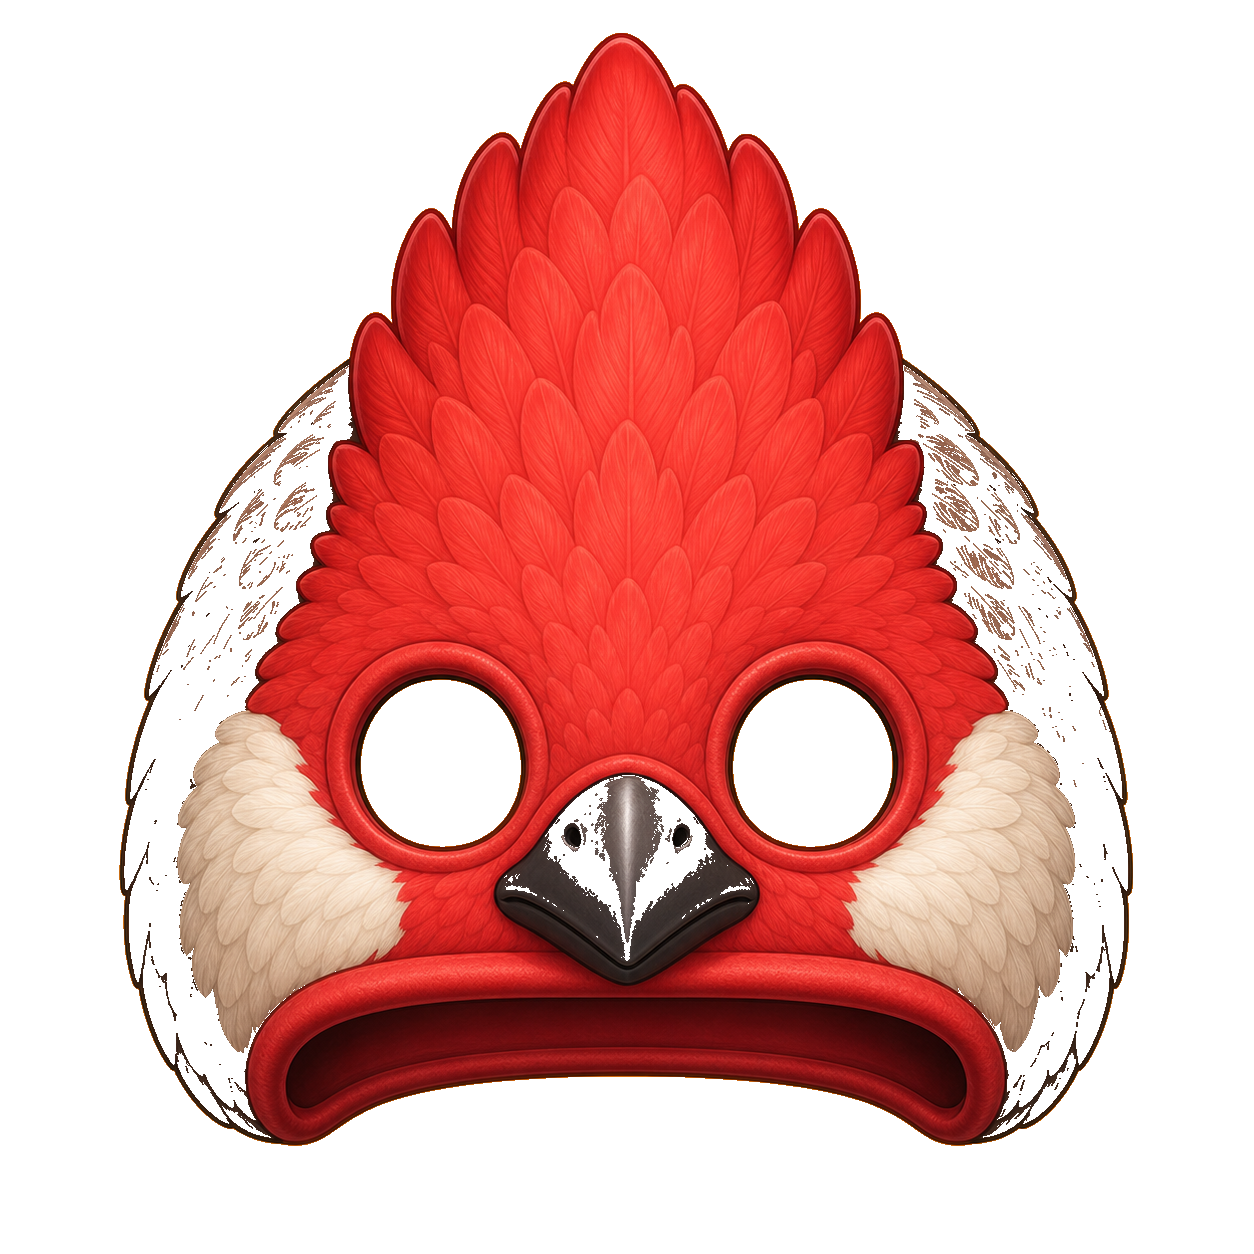
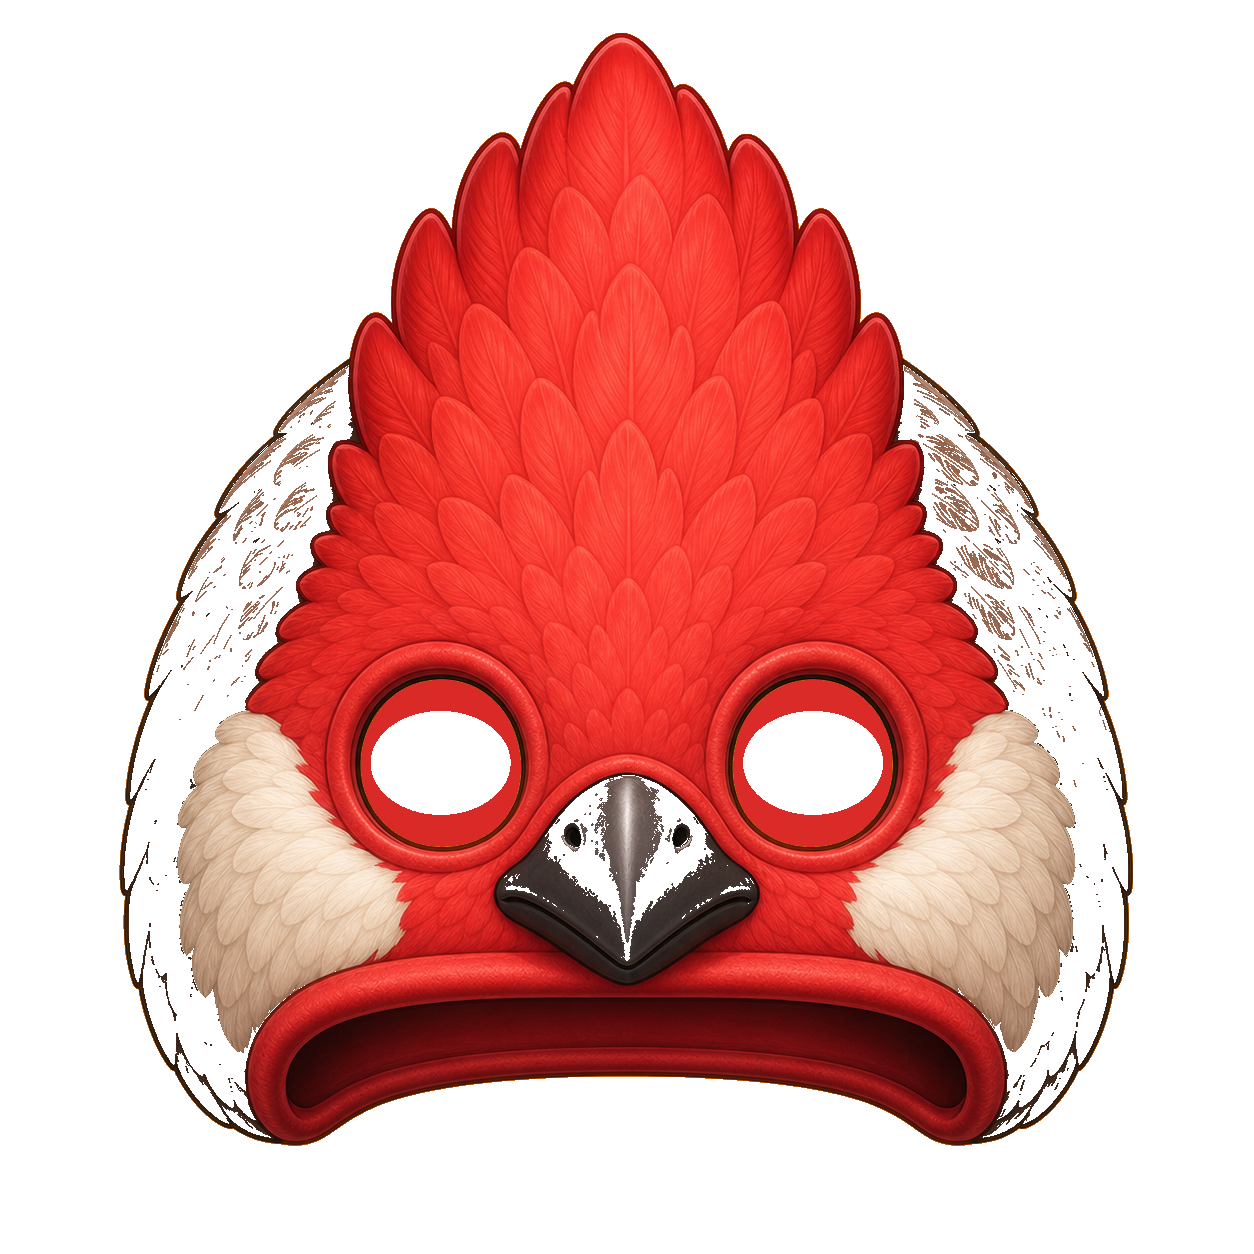
Shrink helmet eye holes to fit the normal-size eyes (keep full-head helmet)
Resized the transparent eye holes in the image (red-rim fill) so the
original almond eyes fit; reverted the eye size/shape overrides.

Changed region(s): [[0.2799, 0.5287, 0.4354, 0.6842], [0.5909, 0.5287, 0.7153, 0.6842], [0.5598, 0.5909, 0.5909, 0.622]]

diff --git a/create-character.html b/create-character.html
@@ -204,12 +204,11 @@
     body.helmet-on .helmet-overlay { display: block; }
 
     /* When the helmet is on, move the eyes into the helmet's eye holes
-       and enlarge them (round) so they fit the holes */
-    body.helmet-on .eye { aspect-ratio: 1 / 1; }
-    body.helmet-on .adult-eye.eye-left  { left: 45.4%; top: 12.4%; width: 7%; }
-    body.helmet-on .adult-eye.eye-right { left: 62.6%; top: 12.4%; width: 7%; }
-    body.helmet-on .kid-eye.eye-left    { left: 46.4%; top: 14.6%; width: 8.3%; }
-    body.helmet-on .kid-eye.eye-right   { left: 66.6%; top: 14.6%; width: 8.3%; }
+       (holes were resized in the image to fit the normal-size eyes) */
+    body.helmet-on .adult-eye.eye-left  { left: 45.4%; top: 12.4%; }
+    body.helmet-on .adult-eye.eye-right { left: 62.6%; top: 12.4%; }
+    body.helmet-on .kid-eye.eye-left    { left: 46.4%; top: 14.6%; }
+    body.helmet-on .kid-eye.eye-right   { left: 66.6%; top: 14.6%; }
 
     /* Right column — options panel with empty boxes */
     .options-panel {
